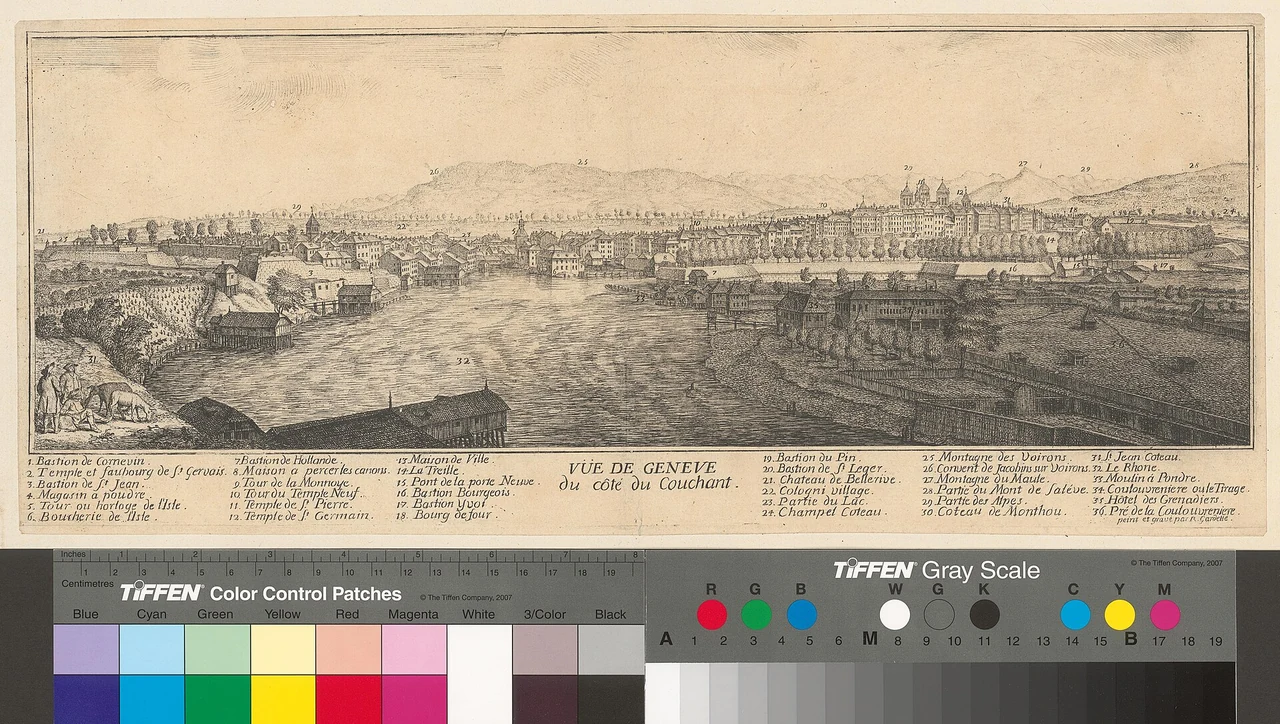
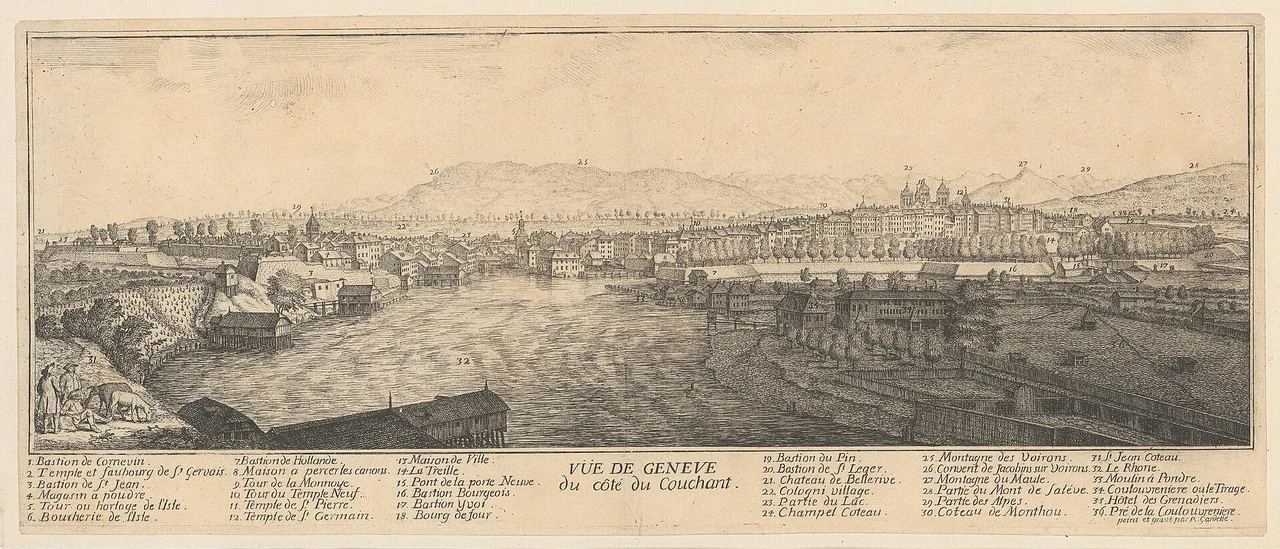
Fix Museum exhibit imagery and curation

diff --git a/src/data/museum/phenomenologySupplementalExhibits.ts b/src/data/museum/phenomenologySupplementalExhibits.ts
@@ -353,6 +353,55 @@ export const PHENOMENOLOGY_SUPPLEMENTAL_EXHIBITS = [
     ], 'Open Merleau-Ponty’s full Atlas article'),
   },
   {
+    id: 'existentialism-kierkegaard-precursor',
+    displayName: 'Kierkegaard: Anxiety, Possibility, and the Existing Individual',
+    shortTitle: 'Kierkegaard: Anxiety and Choice',
+    workLabel: 'KIERKEGAARD · EXISTENTIAL PRECURSOR',
+    dateLabel: 'The Concept of Anxiety, 1844 · later existential reception',
+    question: 'Why can possibility feel like freedom’s opening and its vertigo at once?',
+    frontSubtitle: 'Choice, anxiety, inwardness, social judgment, and the limits of retrospective labels',
+    lead: 'Kierkegaard wrote before existentialism became a twentieth-century movement, yet his analyses of possibility, anxiety, choice, selfhood, and the task of existing decisively redirected later philosophy. Købke’s contemporary view of an Østerbro street keeps the apparently solitary individual inside a lived Copenhagen of homes, institutions, neighbors, movement, and judgment. This contextual route marks a major precursor without pretending that Kierkegaard’s Christian, pseudonymous authorship already contained Sartre, Beauvoir, or later existentialisms.',
+    keyIdeas: [
+      'Anxiety discloses possibility without dictating which possibility should be chosen.',
+      'Existing is a task performed in time, not a detached theory one can finish in advance.',
+      'Kierkegaard’s pseudonyms occupy distinct positions and cannot be collapsed into one direct doctrine.',
+      'Later existentialists inherit questions from Kierkegaard while revising his religious and ethical frameworks.',
+    ],
+    cautions: [
+      'Kierkegaard did not call himself an existentialist in the later school sense.',
+      'Købke’s street view is contextual evidence of 1836 Copenhagen, not an illustration of The Concept of Anxiety.',
+      'Anxiety is not treated here as a clinical diagnosis or romantic proof of authenticity.',
+    ],
+    sections: [
+      {
+        heading: 'Recognition: possibility has a cost',
+        paragraphs: ['A possibility can open action while also exposing that no completed system will make the choice in one’s place. Anxiety names this unstable relation to freedom, not fear of one determinate object.'],
+      },
+      {
+        heading: 'Orientation: the individual is socially situated',
+        paragraphs: ['Kierkegaard criticizes crowds, public abstraction, and inherited conformity, but the existing individual never materializes outside language, religion, neighborhoods, relationships, and judgment. Købke’s street makes that historically particular social field visible.'],
+      },
+      {
+        heading: 'Depth: precursor is not identity',
+        paragraphs: ['Heidegger, Sartre, Beauvoir, and others transform questions of anxiety, possibility, choice, and situation in divergent directions. Calling Kierkegaard a precursor clarifies influence while preserving the differences among Christian inwardness, ontology, atheistic freedom, and situated ethics.'],
+      },
+    ],
+    sources: [
+      {label: 'Stanford Encyclopedia of Philosophy — Søren Kierkegaard', url: 'https://plato.stanford.edu/entries/kierkegaard/', kind: 'academic-reference'},
+      {label: 'Internet Encyclopedia of Philosophy — Søren Kierkegaard', url: 'https://iep.utm.edu/kierkega/', kind: 'academic-reference'},
+      {label: 'Statens Museum for Kunst / Wikimedia Commons — Købke, View of a Street in Østerbro', url: 'https://commons.wikimedia.org/wiki/File:Christen_K%C3%B8bke_-_View_of_a_Street_in_%C3%98sterbro_outside_Copenhagen._Morning_Light_-_Google_Art_Project.jpg', kind: 'collection-record'},
+    ],
+    assetId: 'existentialism-kierkegaard-copenhagen-street',
+    panelAssetId: 'existentialism-kierkegaard-copenhagen-street',
+    articleRoute: {kind: 'philosopher', philosopherId: 'kierkegaard'},
+    presentation: presentation('Gallery 03 contextual exhibit', 'Existential precursor', [
+      {label: 'Philosopher', value: 'Søren Kierkegaard'},
+      {label: 'Problem', value: 'Possibility, anxiety, choice, and becoming a self'},
+      {label: 'Context', value: 'Copenhagen urban life, 1836'},
+      {label: 'Atlas route', value: 'Kierkegaard’s full profile'},
+    ], 'Open Kierkegaard’s full Atlas article'),
+  },
+  {
     id: 'existentialism-facticity-freedom',
     displayName: 'Existentialism: Freedom in a Situation',
     shortTitle: 'Existentialism: Freedom',
@@ -1144,6 +1193,7 @@ export const PHENOMENOLOGY_SUPPLEMENTAL_EXHIBIT_LAYOUTS = [
   layout({id: 'heidegger-being-time', parentExhibitId: 'heidegger', zoneId: 'phenomenology-being-embodiment', position: {x: -5.55, z: -6.22}, rotationY: Math.PI, assetId: 'heidegger-being-time-interpretive', mediaWidth: 2.1, mediaHeight: 3.2, installationKind: 'phenomenology-work', accent: PHENOMENOLOGY_PALETTE.midnight}),
   layout({id: 'merleau-phenomenology-perception', parentExhibitId: 'merleau-ponty', zoneId: 'phenomenology-being-embodiment', position: {x: 5.55, z: -6.22}, rotationY: Math.PI, assetId: 'merleau-perception-interpretive', mediaWidth: 2.1, mediaHeight: 3.2, installationKind: 'phenomenology-work', accent: PHENOMENOLOGY_PALETTE.flesh}),
   layout({id: 'existentialism-facticity-freedom', parentExhibitId: 'existentialism', zoneId: 'existentialism-freedom', position: {x: -5.55, z: 4.98}, rotationY: Math.PI, assetId: 'existentialism-situated-freedom-interpretive', mediaWidth: 2.55, mediaHeight: 3.19, installationKind: 'phenomenology-concept', accent: PHENOMENOLOGY_PALETTE.ambiguity}),
+  layout({id: 'existentialism-kierkegaard-precursor', parentExhibitId: 'existentialism', zoneId: 'existentialism-freedom', position: {x: -11.38, z: 0}, rotationY: Math.PI / 2, assetId: 'existentialism-kierkegaard-copenhagen-street', mediaWidth: 3.5, mediaHeight: 2.3, installationKind: 'phenomenology-context', accent: PHENOMENOLOGY_PALETTE.horizon}),
   layout({id: 'sartre-bad-faith', parentExhibitId: 'sartre', zoneId: 'existentialism-freedom', position: {x: 5.55, z: 4.98}, rotationY: Math.PI, assetId: 'sartre-bad-faith-look-interpretive', mediaWidth: 2.55, mediaHeight: 3.19, installationKind: 'phenomenology-work', accent: PHENOMENOLOGY_PALETTE.flesh}),
   layout({id: 'sartre-existentialism-humanism', parentExhibitId: 'sartre', zoneId: 'existentialism-freedom', position: {x: 5.55, z: -4.98}, rotationY: 0, assetId: 'sartre-ens-portrait-1924', mediaWidth: 2.78, mediaHeight: 3.18, installationKind: 'phenomenology-work', accent: PHENOMENOLOGY_PALETTE.flesh}),
   layout({id: 'beauvoir-ethics-ambiguity', parentExhibitId: 'camus', zoneId: 'existentialism-situated-absurd', position: {x: 5.55, z: 16.18}, rotationY: Math.PI, assetId: 'beauvoir-gpo-1967', mediaWidth: 2.42, mediaHeight: 3.22, installationKind: 'phenomenology-context', accent: PHENOMENOLOGY_PALETTE.ambiguity}),

diff --git a/src/data/museum/empiricismSupplementalExhibits.ts b/src/data/museum/empiricismSupplementalExhibits.ts
@@ -99,21 +99,21 @@ export const EMPIRICISM_SUPPLEMENTAL_EXHIBITS = [
   }),
   record({
     id: 'locke-molyneux-crossmodal-vision',
-    assetId: 'locke-molyneux-cataract-surgery',
+    assetId: 'locke-molyneux-ribera-touch',
     displayName: 'Molyneux’s Question: Can Touch Be Recognized at First Sight?',
     shortTitle: 'Locke and Molyneux',
     workLabel: 'MOLYNEUX’S QUESTION · TOUCH, SIGHT, AND LEARNED COORDINATION',
     dateLabel: 'Posed to Locke in 1688 · printed in the Essay from 1694',
     question: 'If a person born blind learned a cube and sphere by touch, would restored vision identify them before touch connected the senses?',
-    frontSubtitle: 'Cross-modal recognition, concepts, visual learning, surgery, experimental design, and patient care',
-    lead: 'William Molyneux posed the problem to Locke, who printed it in later editions of the Essay. Its force lies in separating possession of a concept from the sensory route by which an object is presented. Berkeley, Leibniz, and later researchers gave competing answers. Cataract cases transformed a thought experiment into an ethically and medically difficult research tradition, but no single operation simply reproduces the stipulated case.',
+    frontSubtitle: 'Cross-modal recognition, concepts, visual learning, touch, sight, and experimental design',
+    lead: 'William Molyneux posed the problem to Locke, who printed it in later editions of the Essay. Its force lies in separating possession of a concept from the sensory route by which an object is presented. Ribera’s earlier painting of a blind man identifying sculptural form by touch while a painted face remains unavailable to him offers a historically appropriate visual companion. Berkeley, Leibniz, and later researchers gave competing answers; no single operation or study simply reproduces the stipulated case.',
     keyIdeas: [
       'Cross-modal recognition may depend on learned coordination rather than identical visual and tactile ideas.',
       'The phrase “at first sight” distinguishes immediate recognition from rapid learning.',
-      'Surgery and psychology alter the question as well as supplying evidence about it.',
+      'Restored-vision cases and psychology alter the question as well as supplying evidence about it.',
     ],
     cautions: [
-      'The displayed 2003 operation is not William Cheselden’s 1728 case.',
+      'Ribera’s painting predates Molyneux’s question and is a visual companion, not evidence for an answer.',
       'Restored vision is not a clean philosophical switch, and patients receiving care are not instruments for solving a puzzle.',
     ],
     sections: [
@@ -122,7 +122,7 @@ export const EMPIRICISM_SUPPLEMENTAL_EXHIBITS = [
       {heading: 'Experiment changes the burden', paragraph: 'Surgical and contemporary studies bring evidence, but congenital history, postoperative acuity, time to learn, and task design complicate interpretation. The responsible result is constrained inquiry, not a triumphal yes or no.'},
     ],
     sources: [
-      image('U.S. Navy / Wikimedia Commons — modern cataract operation, 2003', 'https://commons.wikimedia.org/wiki/File:Cataract_surgery.jpg'),
+      image('Norton Simon Museum / Wikimedia Commons — Jusepe de Ribera, The Sense of Touch', 'https://commons.wikimedia.org/wiki/File:Jos%C3%A9_de_Ribera_018.jpg'),
       academic('Stanford Encyclopedia of Philosophy — Molyneux’s Problem', 'https://plato.stanford.edu/entries/molyneux-problem/'),
       primary('Project Gutenberg — Locke, Essay Concerning Human Understanding', 'https://www.gutenberg.org/ebooks/10615'),
     ],
@@ -556,7 +556,7 @@ const supplementalLayout = (
  */
 export const EMPIRICISM_SUPPLEMENTAL_EXHIBIT_LAYOUTS = [
   supplementalLayout('empiricism-micrographia-enlarged-sight', 'empiricism', 'empiricism', 'empiricism-locke-ideas-rights', {x: -5.55, z: -26.88}, 0, 'empiricism-hooke-micrographia-flea', 3.16, 1.89, 'empiricism-context', EMPIRICISM_PALETTE.blue),
-  supplementalLayout('locke-molyneux-crossmodal-vision', 'locke', 'empiricism', 'empiricism-locke-ideas-rights', {x: -5.55, z: -10.45}, Math.PI, 'locke-molyneux-cataract-surgery', 2.96, 2.22, 'empiricism-concept', EMPIRICISM_PALETTE.indigo),
+  supplementalLayout('locke-molyneux-crossmodal-vision', 'locke', 'empiricism', 'empiricism-locke-ideas-rights', {x: -5.55, z: -10.45}, Math.PI, 'locke-molyneux-ribera-touch', 2.4, 3.2, 'empiricism-concept', EMPIRICISM_PALETTE.indigo),
   supplementalLayout('locke-consciousness-prince-cobbler', 'locke', 'locke', 'empiricism-locke-ideas-rights', {x: 5.55, z: -26.88}, 0, 'locke-cobbler-workshop-1671', 1.94, 2.7, 'empiricism-concept', EMPIRICISM_PALETTE.gold),
   supplementalLayout('locke-rights-property-carolina', 'locke', 'locke', 'empiricism-locke-ideas-rights', {x: 5.55, z: -10.45}, Math.PI, 'empiricism-locke-carolina-map', 3.08, 2.36, 'empiricism-context', EMPIRICISM_PALETTE.red),
   supplementalLayout('berkeley-vision-learned-distance', 'berkeley', 'berkeley', 'empiricism-berkeley-perception', {x: -5.55, z: -8.22}, 0, 'berkeley-perspective-instrument-1604', 2.96, 2.22, 'empiricism-concept', EMPIRICISM_PALETTE.blue),

diff --git a/src/data/museum/phenomenologyGalleryAssets.ts b/src/data/museum/phenomenologyGalleryAssets.ts
@@ -48,6 +48,15 @@ const generatedSource = (id: string) =>
 
 export const PHENOMENOLOGY_GALLERY_ASSETS = [
   galleryAsset({
+    id: 'phenomenology-cezanne-still-life', entityKind: 'branch', entityId: 'phenomenology', role: 'context', mediaKind: 'painting',
+    title: 'Still Life with Apples and a Pot of Primroses', creator: 'Paul Cézanne', objectDate: 'c. 1890', institution: 'The Metropolitan Museum of Art, 51.112.1',
+    sourcePageUrl: 'https://commons.wikimedia.org/wiki/File:Still_Life_with_Apples_and_a_Pot_of_Primroses_MET_DT47.jpg', objectPageUrl: 'https://www.metmuseum.org/art/collection/search/435882', ...cc0,
+    attribution: 'Paul Cézanne, Still Life with Apples and a Pot of Primroses, c. 1890, The Metropolitan Museum of Art, 51.112.1. CC0 1.0.', derivativeNotice: originalNotice,
+    scene: [640, 508], panel: [1280, 1016], alt: 'A potted primrose, apples, folded cloth, and vessels share a table whose edges and objects shift subtly across viewpoints.',
+    caption: 'Cézanne’s still life lets one scene appear through tensions among profile, depth, color, and point of view.',
+    historicalNote: 'The painting predates phenomenology as a named movement and was not made to illustrate Husserl. It is presented as a visual companion for sustained attention to how one world is given through partial and sometimes discordant appearances.', likenessStatus: 'not-applicable', focalPoint: {x: .5, y: .48},
+  }),
+  galleryAsset({
     id: 'phenomenology-intentionality-interpretive', entityKind: 'branch', entityId: 'phenomenology', role: 'context', mediaKind: 'drawing',
     title: 'Intentionality: object, profile, and horizon', creator: 'Philosophy Atlas Museum with OpenAI ImageGen', objectDate: '2026', institution: 'Philosophy Atlas Museum',
     sourcePageUrl: generatedSource('phenomenology-intentionality-interpretive'), license: 'Original Philosophy Atlas Museum interpretive illustration', rightsKind: 'rights-status',
@@ -91,6 +100,15 @@ export const PHENOMENOLOGY_GALLERY_ASSETS = [
     scene: [640, 445], panel: [1280, 889], alt: 'Edvard Munch painting of an evening crowd advancing along Karl Johan Street while one dark figure walks apart.',
     caption: 'Edvard Munch, Evening on Karl Johan Street, 1892: crowd, isolation, and an unsettled public world.',
     historicalNote: 'The painting predates existentialism as a named twentieth-century movement. It is presented as a visual companion to themes of anxiety, estrangement, and public existence, not as an illustration or definition of the school.', likenessStatus: 'not-applicable', focalPoint: {x: .5, y: .48},
+  }),
+  galleryAsset({
+    id: 'existentialism-kierkegaard-copenhagen-street', entityKind: 'philosopher', entityId: 'kierkegaard', role: 'context', mediaKind: 'painting',
+    title: 'View of a Street in Østerbro outside Copenhagen. Morning Light', creator: 'Christen Købke', objectDate: '1836', institution: 'Statens Museum for Kunst, Copenhagen (KMS844)',
+    sourcePageUrl: 'https://commons.wikimedia.org/wiki/File:Christen_K%C3%B8bke_-_View_of_a_Street_in_%C3%98sterbro_outside_Copenhagen._Morning_Light_-_Google_Art_Project.jpg', ...publicDomain,
+    attribution: 'Christen Købke, View of a Street in Østerbro outside Copenhagen. Morning Light, 1836. Statens Museum for Kunst, KMS844. Public Domain Mark 1.0.', derivativeNotice: originalNotice,
+    scene: [640, 421], panel: [1280, 841], alt: 'Morning light falls across a quiet street in Østerbro outside Copenhagen, with modest houses, trees, and a few people receding into the distance.',
+    caption: 'Købke’s 1836 Copenhagen street supplies the lived urban world in which Kierkegaard’s questions of choice, inwardness, and public judgment took shape.',
+    historicalNote: 'Købke’s painting is contemporary Copenhagen context, not a portrait of Kierkegaard or an illustration of The Concept of Anxiety. It locates the philosophical precursor within a particular social and urban world without collapsing later existentialisms into his project.', likenessStatus: 'not-applicable', focalPoint: {x: .52, y: .52},
   }),
   galleryAsset({
     id: 'sartre-ens-portrait-1924', entityKind: 'philosopher', entityId: 'sartre', role: 'identity', mediaKind: 'photograph',

diff --git a/src/data/museum/empiricismGalleryAssets.ts b/src/data/museum/empiricismGalleryAssets.ts
@@ -12,7 +12,7 @@ import type {
 export type EmpiricismGalleryAssetId =
   | 'empiricism-hooke-micrographia-flea'
   | 'empiricism-orrery-lecture-1766'
-  | 'locke-molyneux-cataract-surgery'
+  | 'locke-molyneux-ribera-touch'
   | 'locke-cobbler-workshop-1671'
   | 'empiricism-locke-greenhill-portrait'
   | 'empiricism-locke-carolina-map'
@@ -96,13 +96,13 @@ export const EMPIRICISM_GALLERY_ASSETS = [
     likenessStatus: 'not-applicable', focalPoint: {x: .51, y: .49},
   }),
   asset({
-    id: 'locke-molyneux-cataract-surgery', entityKind: 'philosopher', entityId: 'locke', role: 'context', mediaKind: 'photograph', visualCharacter: 'artwork-or-social-scene',
-    title: 'Cataract surgery at Naval Medical Center Portsmouth', creator: 'U.S. Navy', imageCreator: 'Journalist 2nd Class Sarah Langdon', objectDate: '20 June 2003', institution: 'Naval Medical Center Portsmouth', sourcePageUrl: 'https://commons.wikimedia.org/wiki/File:Cataract_surgery.jpg', ...publicDomain, derivativeNotice,
-    attribution: 'Sarah Langdon, U.S. Navy, cataract surgery at Naval Medical Center Portsmouth, 2003. Public-domain U.S. government work.', scene: [640, 480], panel: [1280, 961],
-    alt: 'A surgeon works through a microscope while inserting a synthetic lens during a modern cataract operation.',
-    caption: 'A modern operation marks the continuing medical and experimental afterlife of Molyneux’s cross-modal question.',
-    historicalNote: 'This is a 2003 operation, not William Cheselden’s 1728 case, and it does not reproduce the clean conditions stipulated in Molyneux’s thought experiment. The patient is receiving care, not serving as an illustration of an eighteenth-century event.',
-    likenessStatus: 'not-applicable', focalPoint: {x: .5, y: .5},
+    id: 'locke-molyneux-ribera-touch', entityKind: 'philosopher', entityId: 'locke', role: 'context', mediaKind: 'painting', visualCharacter: 'artwork-or-social-scene',
+    title: 'The Sense of Touch', creator: 'Jusepe de Ribera', objectDate: 'c. 1615–1616', institution: 'Norton Simon Museum, F.1965.1.052.P', sourcePageUrl: 'https://commons.wikimedia.org/wiki/File:Jos%C3%A9_de_Ribera_018.jpg', objectPageUrl: 'https://www.nortonsimon.org/art/detail/F.1965.1.052.P/', ...publicDomain, derivativeNotice,
+    attribution: 'Jusepe de Ribera, The Sense of Touch, c. 1615–1616, Norton Simon Museum. Public Domain Mark 1.0 reproduction via Wikimedia Commons.', scene: [480, 640], panel: [960, 1280],
+    alt: 'A blind man thoughtfully explores a sculpted head with both hands while a painted portrait rests unseen beside him.',
+    caption: 'Ribera’s tactile encounter separates recognizing form by touch from recognizing a painted appearance by sight.',
+    historicalNote: 'Painted before Molyneux posed his question, the work is a period visual companion rather than an illustration of Locke, Molyneux, Cheselden, or a restored-vision experiment. Ribera’s comparison of sculpture and painting makes the distinction between tactile and visual access materially legible.',
+    likenessStatus: 'not-applicable', focalPoint: {x: .5, y: .48},
   }),
   asset({
     id: 'locke-cobbler-workshop-1671', entityKind: 'philosopher', entityId: 'locke', role: 'context', mediaKind: 'painting', visualCharacter: 'artwork-or-social-scene',

diff --git a/src/data/museum/museumCanonicalProgram.ts b/src/data/museum/museumCanonicalProgram.ts
@@ -377,7 +377,7 @@ export const MUSEUM_CANONICAL_PROGRAM = [
     recordCapacity: 10,
     rooms: [
       {id: 'phenomenology-method', title: 'Intentionality, reduction, and lifeworld', recordCapacity: 2, exhibits: [
-        exhibit({id: 'phenomenology', entityKind: 'branch', entityId: 'phenomenology', displayName: 'Phenomenology', tier: 'anchor-exhibit', question: 'How can disciplined description disclose the structures of experience?', secondaryHallIds: ['critique-power-deconstruction']}),
+        exhibit({id: 'phenomenology', entityKind: 'branch', entityId: 'phenomenology', displayName: 'Phenomenology', tier: 'anchor-exhibit', question: 'How can disciplined description disclose the structures of experience?', secondaryHallIds: ['critique-power-deconstruction'], principalAssetId: 'phenomenology-cezanne-still-life'}),
         exhibit({id: 'husserl', entityKind: 'philosopher', entityId: 'husserl', displayName: 'Husserl', tier: 'anchor-exhibit', question: 'How can careful description disclose the structures by which consciousness is directed toward a world?', secondaryHallIds: [], formerHallId: 'mind-consciousness-self', principalAssetId: 'husserl-portrait', supportingAssetIds: ['husserl-grossmann-seated-1920s']}),
       ]},
       {id: 'phenomenology-being-embodiment', title: 'Being-in-the-world, perception, and embodiment', recordCapacity: 2, exhibits: [

diff --git a/src/data/museum/enlightenmentGalleryAssets.ts b/src/data/museum/enlightenmentGalleryAssets.ts
@@ -418,11 +418,11 @@ export const ENLIGHTENMENT_GALLERY_ASSETS = [
     sourcePageUrl:
       'https://commons.wikimedia.org/wiki/File:Zentralbibliothek_Z%C3%BCrich_-_Vue_de_Geneve_du_cot%C3%A9_du_Couchant_-_991081642359705501.jpg',
     ...publicDomain,
-    derivativeNotice,
+    derivativeNotice: 'Calibration target below the reproduction removed; the complete engraving and lettered key are retained, resized, and converted to WebP by Philosophy Atlas.',
     attribution:
       'Robert Gardelle, Vue de Genève du côté du Couchant, c. 1720–1750, Zentralbibliothek Zürich. Public Domain Mark 1.0.',
-    scene: [640, 362],
-    panel: [1280, 724],
+    scene: [640, 274],
+    panel: [1280, 549],
     alt: 'A wide engraved prospect shows Geneva behind its walls with roads and figures in the foreground.',
     caption: 'The bounded city of Geneva gives Rousseau’s language of citizenship a material horizon.',
     historicalNote:

diff --git a/scripts/museumPlaqueBrowserAudit.ts b/scripts/museumPlaqueBrowserAudit.ts
@@ -327,14 +327,14 @@ try {
     });
   }
 
-  if (supplementalResults.length !== 409) {
+  if (supplementalResults.length !== 410) {
     failures.push({
       hall: 'Museum-wide', room: 'all supplemental rooms', exhibitId: 'supplemental-program', title: 'Supplemental program',
       offendingRole: 'contract', finalLineCount: 0, finalFontSize: 0,
       truncation: false, overflow: false, minimumSizeFailure: false,
       relationshipFailure: true, hierarchyFailure: false,
       plaqueType: 'supplemental-registry', canonicalContexts: 'Museum-wide supplemental registry',
-      message: `expected 409 physical supplemental wall plaques; audited ${supplementalResults.length}`,
+      message: `expected 410 physical supplemental wall plaques; audited ${supplementalResults.length}`,
     });
   }
 

diff --git a/src/data/museum/museumAssetTypes.ts b/src/data/museum/museumAssetTypes.ts
@@ -174,6 +174,8 @@ export type MuseumAssetId =
   | 'putney-agreement-people-1648'
   | 'hobbes-notes-motion-chatsworth'
   | 'phenomenology-intentionality-interpretive'
+  | 'phenomenology-cezanne-still-life'
+  | 'existentialism-kierkegaard-copenhagen-street'
   | 'husserl-lifeworld-atget-pavers'
   | 'heidegger-being-time-interpretive'
   | 'merleau-perception-interpretive'
@@ -435,7 +437,7 @@ export type MuseumAssetId =
   | 'rationalism-tractatus-manuscript-note'
   | 'empiricism-hooke-micrographia-flea'
   | 'empiricism-orrery-lecture-1766'
-  | 'locke-molyneux-cataract-surgery'
+  | 'locke-molyneux-ribera-touch'
   | 'locke-cobbler-workshop-1671'
   | 'empiricism-locke-greenhill-portrait'
   | 'empiricism-locke-carolina-map'

diff --git a/src/data/museum/phenomenologyGalleryCuration.ts b/src/data/museum/phenomenologyGalleryCuration.ts
@@ -1,8 +1,8 @@
 /**
  * Gallery 03 is composed of paired half-room bays around a clear centre aisle.
  * These authored placements reserve intact outer walls for primary exhibits.
- * Existentialism uses the north partition because its outer wall is interrupted
- * by the Gallery 03 doorway; Sartre retains the intact east primary wall.
+ * Existentialism uses the north partition so its adjacent intact west wall can
+ * carry a contextual precursor; Sartre retains the east primary wall.
  */
 export const PHENOMENOLOGY_PRIMARY_PLACEMENTS = {
   phenomenology: {x: -10.85, z: -22.4, rotationY: Math.PI / 2},

diff --git a/src/data/museum/museumWorldTypes.ts b/src/data/museum/museumWorldTypes.ts
@@ -136,6 +136,7 @@ export type MuseumSupplementalExhibitId =
   | 'heidegger-being-time'
   | 'merleau-phenomenology-perception'
   | 'existentialism-facticity-freedom'
+  | 'existentialism-kierkegaard-precursor'
   | 'sartre-bad-faith'
   | 'sartre-existentialism-humanism'
   | 'beauvoir-ethics-ambiguity'

diff --git a/scripts/prepareMuseumGallery18Assets.py b/scripts/prepareMuseumGallery18Assets.py
@@ -96,6 +96,14 @@ def load_manifest(refresh_locks: bool) -> dict[str, dict[str, object]]:
                 "Gallery 18 requires one reviewed source page per asset."
             )
         seen_urls[page_url] = slug
+        crop = record.get("crop")
+        if crop is not None:
+            if not isinstance(crop, dict) or set(crop) != {"left", "top", "right", "bottom"}:
+                raise RuntimeError(f"{slug}.crop must contain left, top, right, and bottom.")
+            if not all(isinstance(crop[field], int) for field in crop):
+                raise RuntimeError(f"{slug}.crop values must be integers.")
+            if crop["left"] < 0 or crop["top"] < 0 or crop["right"] <= crop["left"] or crop["bottom"] <= crop["top"]:
+                raise RuntimeError(f"{slug}.crop is not a valid image box.")
         if not refresh_locks:
             for variant_name in ("scene", "panel"):
                 if not isinstance(record.get(variant_name), dict):
@@ -259,6 +267,12 @@ def main() -> None:
             print(f"[{index:02d}/{len(assets)}] {slug}", flush=True)
             download(str(record["selectedThumbnailUrl"]), source)
             image = rgb_image(source)
+            crop = record.get("crop")
+            if isinstance(crop, dict):
+                box = (int(crop["left"]), int(crop["top"]), int(crop["right"]), int(crop["bottom"]))
+                if box[2] > image.width or box[3] > image.height:
+                    raise RuntimeError(f"{slug}.crop exceeds the downloaded image bounds {image.size}.")
+                image = image.crop(box)
             scene_lock = save_variant(
                 image,
                 candidate_scene,

diff --git a/scripts/prepareMuseumModernAssets.py b/scripts/prepareMuseumModernAssets.py
@@ -45,7 +45,7 @@ EXPECTED_HALLS = {
     "east-asian-continuities",
     "jewish-philosophy",
 }
-EXPECTED_ASSET_COUNT = 315
+EXPECTED_ASSET_COUNT = 317
 MAX_DERIVATIVE_BYTES = 600_000
 MIN_MUSEUM_SHORT_EDGE = 180
 
